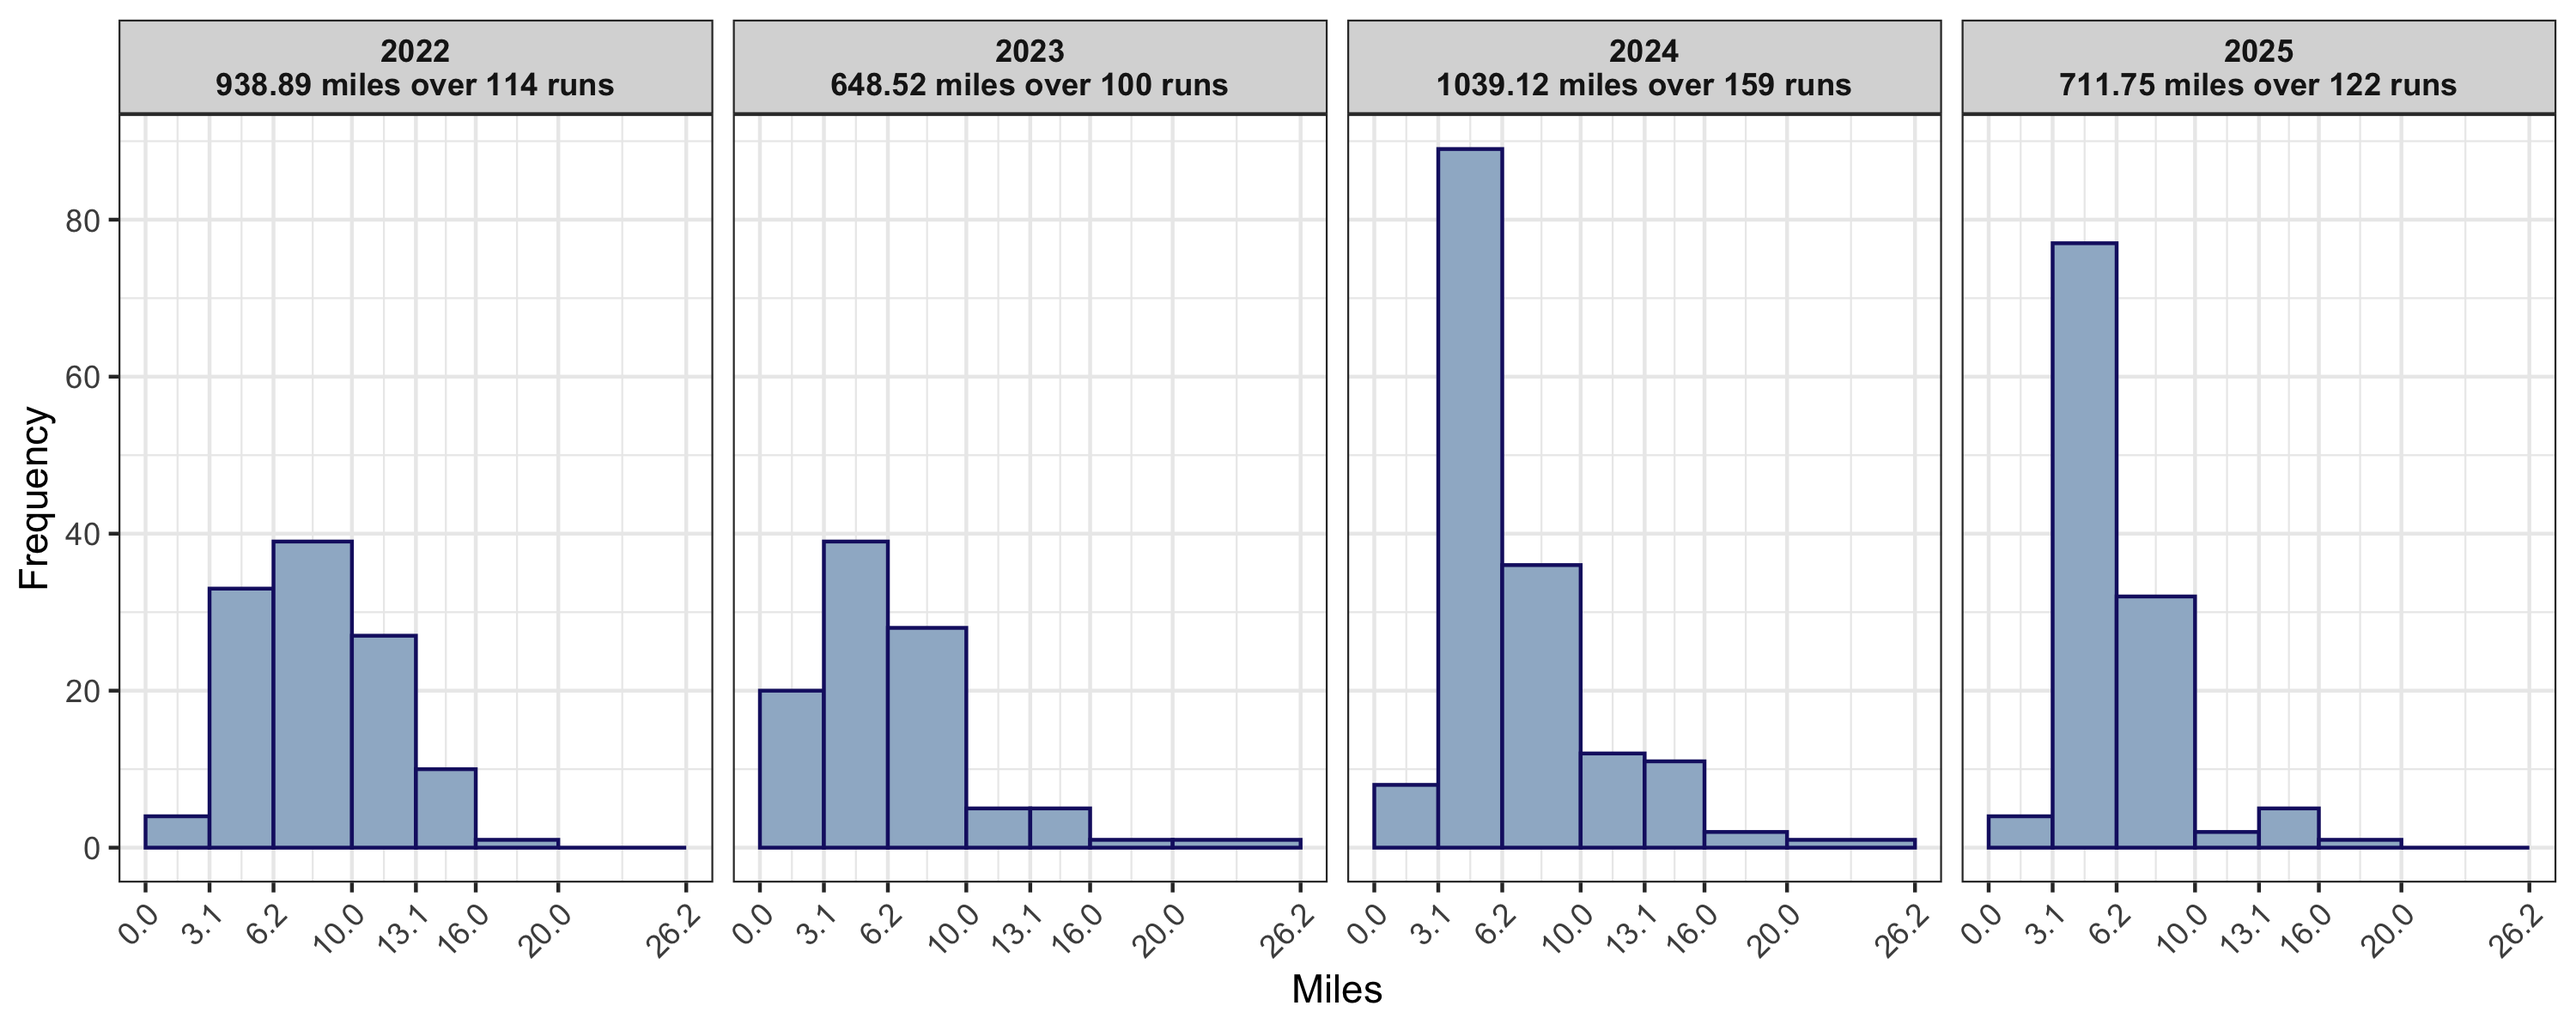
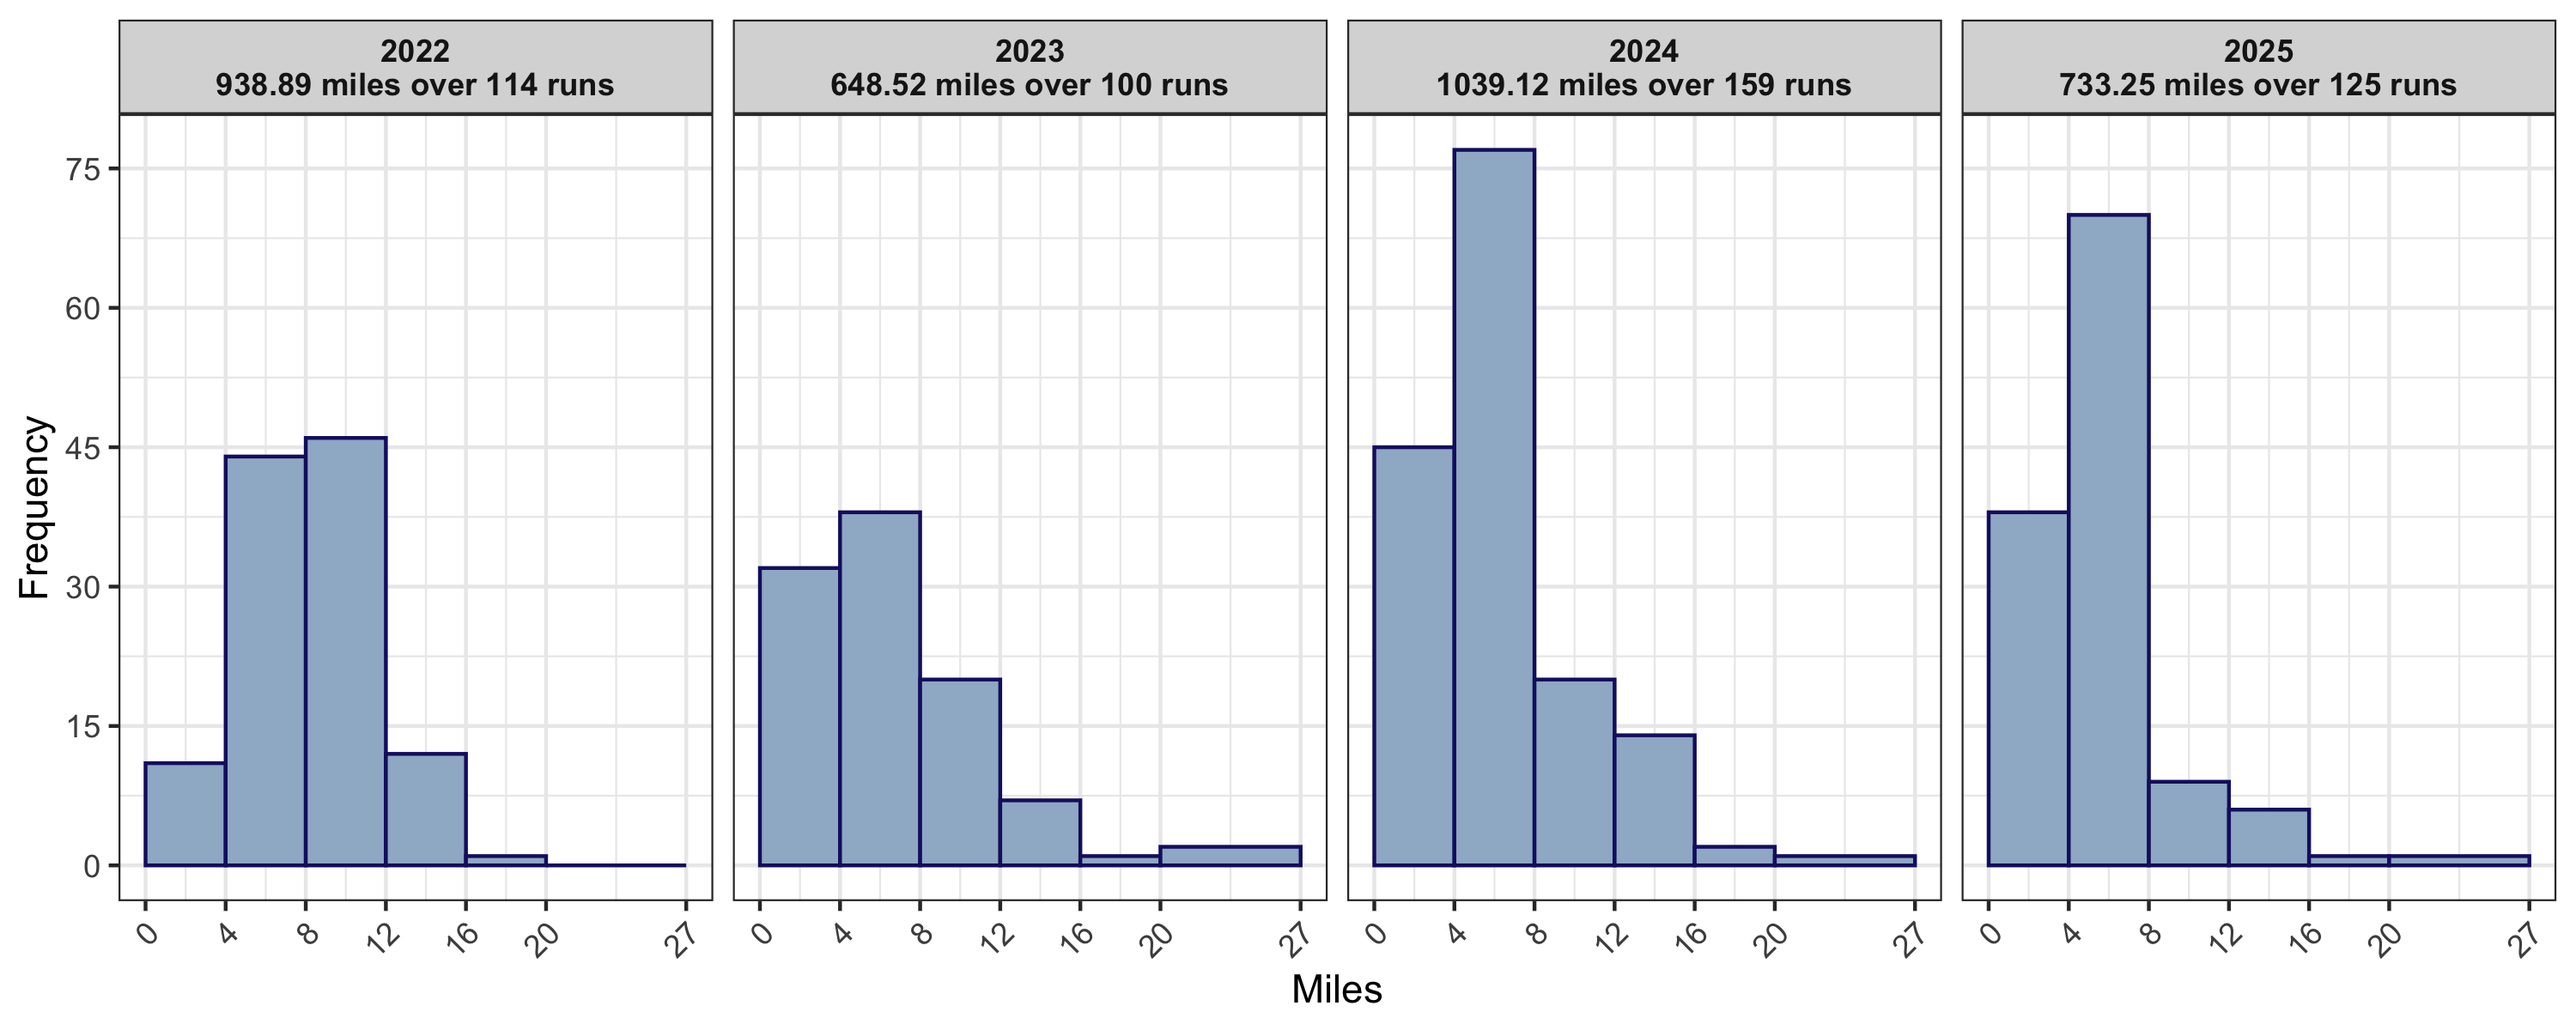
8/19/25, 8/20/25

Changed region(s): [[0.0, 0.1233, 0.992, 0.925], [0.806, 0.0617, 0.837, 0.0925]]

diff --git a/README.md b/README.md
@@ -32,8 +32,8 @@ milesPerYear <- aggregate(Miles ~ Year, data = runningData, FUN = sum)
 runsPerYear <- table(runningData$Year)
 runningData$Year <- factor(runningData$Year, labels = paste(milesPerYear$Year, "\n", round(milesPerYear$Miles, 2), " miles over ", runsPerYear, " runs", sep = ""))
 
-breaks <- c(0, 3.1, 6.2, 10, 13.1, 16, 20, 26.2)
-ggplot(runningData[- grep("2021", runningData$Year),], aes(x = Miles)) + geom_histogram(color = "midnightblue", fill = "slategray3", breaks = breaks) + facet_grid(. ~ Year) + ylab("Frequency") + scale_x_continuous(breaks = breaks) + scale_y_continuous(breaks = seq(0, 80, 20)) + theme_bw() + theme(strip.text.x = element_text(face = "bold"), axis.text.x = element_text(angle = 45, vjust = 1, hjust = 1))
+breaks = c(0, 4, 8, 12, 16, 20, 27)# seq(0, 28, 4)
+ggplot(runningData[- grep("2021", runningData$Year),], aes(x = Miles)) + geom_histogram(color = "midnightblue", fill = "slategray3", breaks = breaks) + facet_grid(. ~ Year) + ylab("Frequency") + scale_x_continuous(breaks = breaks) + scale_y_continuous(breaks = seq(0, 80, 15)) + theme_bw() + theme(strip.text.x = element_text(face = "bold"), axis.text.x = element_text(angle = 45, vjust = 1, hjust = 1))
 ```
 
 ![](Plots/README-Running-Plots-2-1.png)<!-- -->
@@ -46,7 +46,7 @@ Total miles since 11/29/21:
 sum(runningData$Miles)
 ```
 
-    ## [1] 3408.73
+    ## [1] 3430.23
 
 Average distance over last ten runs:
 
@@ -54,4 +54,4 @@ Average distance over last ten runs:
 mean(tail(runningData$Miles, 10))
 ```
 
-    ## [1] 5.349
+    ## [1] 5.823
